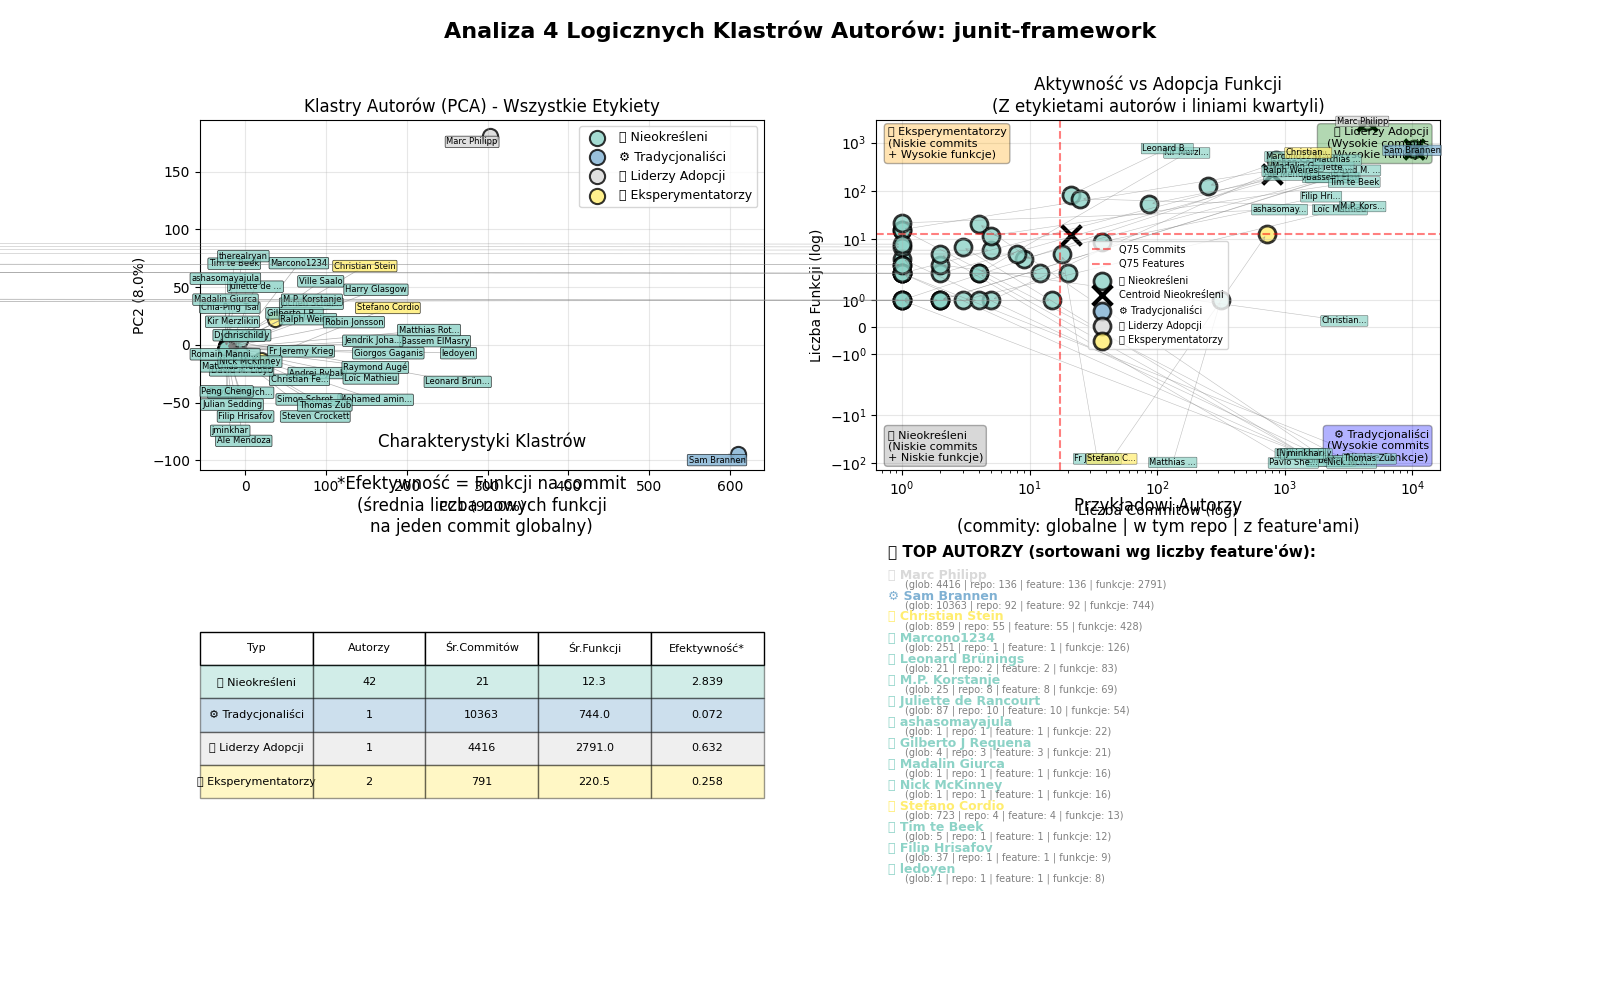
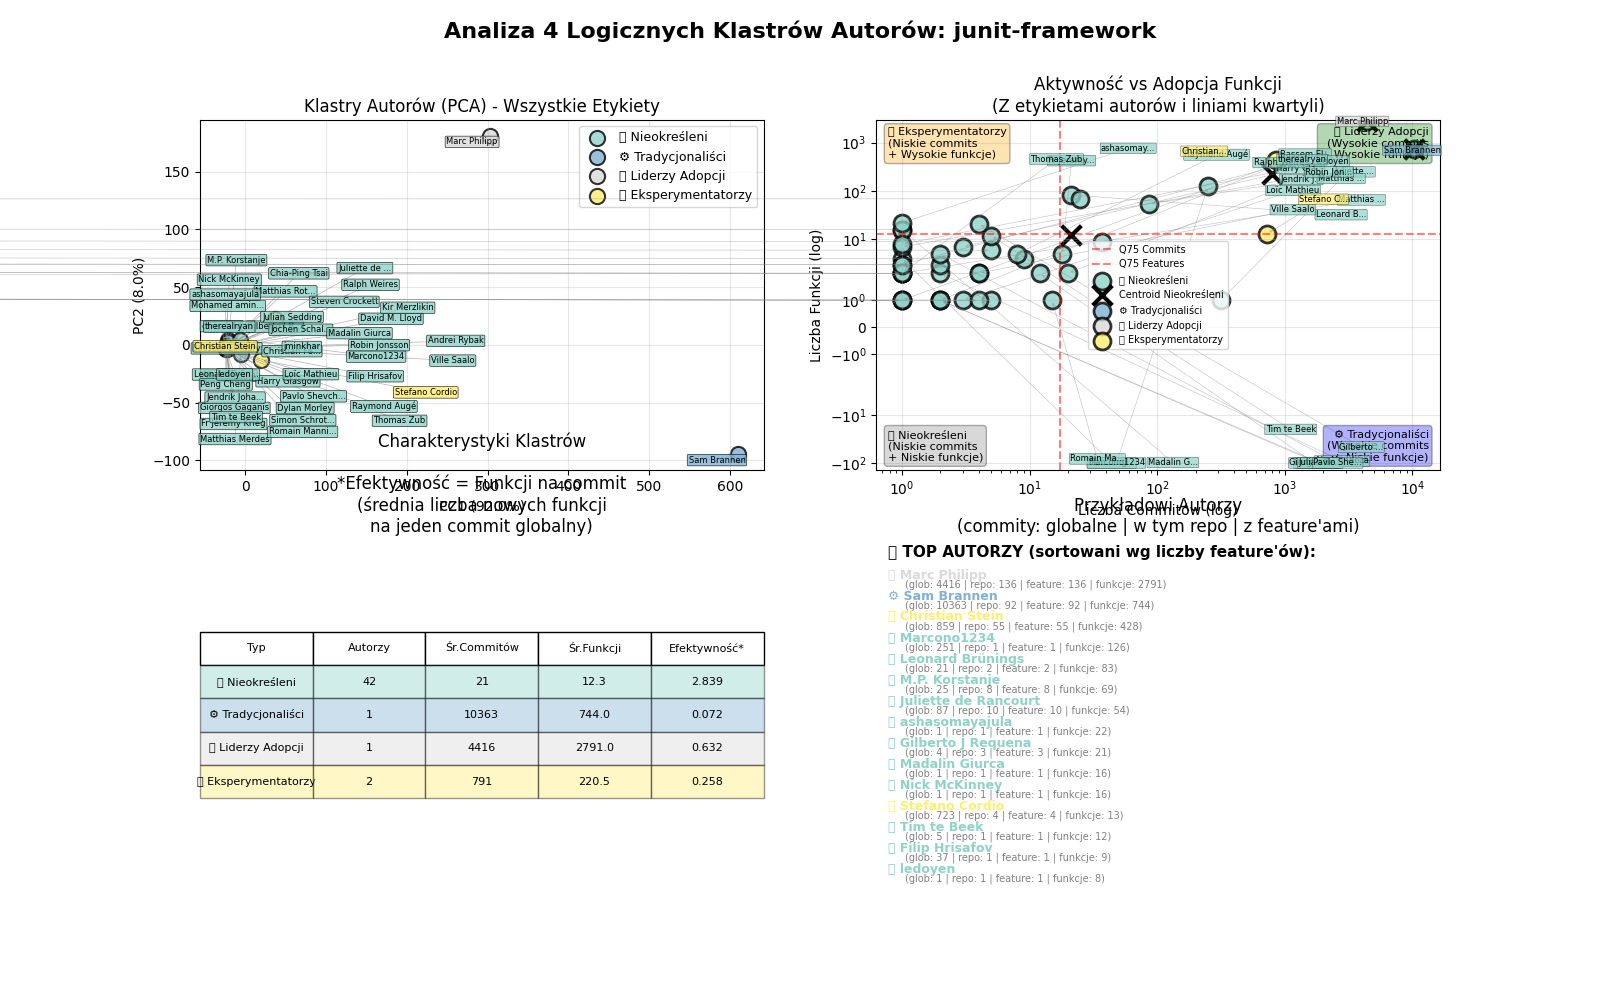
feat: even more charts

diff --git a/improved_cluster_analyzer_final.py b/improved_cluster_analyzer_final.py
@@ -1204,11 +1204,13 @@ PODSUMOWANIE ULEPSZEŃ:
         # Wykres 1: Boxplot efektywności per klaster
         if not global_df.empty and 'cluster_name' in global_df.columns:
             cluster_order = ['Liderzy Adopcji', 'Eksperymentatorzy', 'Tradycjonaliści', 'Nieokreśleni']
-            efficiency_data = [global_df[global_df['cluster_name'] == name]['features_per_commit'] for name in cluster_order if name in global_df['cluster_name'].values]
-            colors = [color_map[name] for name in cluster_order if name in global_df['cluster_name'].values]
+            # Filter to only include clusters present in the data
+            valid_cluster_order = [name for name in cluster_order if name in global_df['cluster_name'].unique()]
+            efficiency_data = [global_df[global_df['cluster_name'] == name]['features_per_commit'] for name in valid_cluster_order]
+            colors = [color_map[name] for name in valid_cluster_order]
             
             if efficiency_data:
-                bp = ax1.boxplot(efficiency_data, labels=[name for name in cluster_order if name in global_df['cluster_name'].values], patch_artist=True)
+                bp = ax1.boxplot(efficiency_data, labels=valid_cluster_order, patch_artist=True)
                 for patch, color in zip(bp['boxes'], colors):
                     patch.set_facecolor(color)
                     patch.set_alpha(0.7)
@@ -1218,15 +1220,16 @@ PODSUMOWANIE ULEPSZEŃ:
                 ax1.tick_params(axis='x', rotation=45, labelsize=11)
                 ax1.grid(True, alpha=0.3)
 
-        # Wykres 2: ZMIANA - Top 20 najbardziej efektywnych autorów (zamiast histogramu)
+        # Wykres 2: Top 20 najbardziej efektywnych autorów
+        top_20_authors = pd.DataFrame()
         if not global_df.empty and 'features_per_commit' in global_df.columns:
-            top_authors = global_df.nlargest(20, 'features_per_commit')
-            top_authors = top_authors.sort_values('features_per_commit', ascending=True) # For horizontal bar chart
+            top_20_authors = global_df.nlargest(20, 'features_per_commit')
+            top_authors_sorted = top_20_authors.sort_values('features_per_commit', ascending=True)
 
-            bars = ax2.barh(range(len(top_authors)), top_authors['features_per_commit'],
+            bars = ax2.barh(range(len(top_authors_sorted)), top_authors_sorted['features_per_commit'],
                            color='mediumseagreen', alpha=0.8)
-            ax2.set_yticks(range(len(top_authors)))
-            ax2.set_yticklabels(top_authors['author'], fontsize=10)
+            ax2.set_yticks(range(len(top_authors_sorted)))
+            ax2.set_yticklabels(top_authors_sorted['author'], fontsize=10)
             ax2.set_xlabel('Efektywność (Funkcji na Commit)', fontsize=12)
             ax2.set_ylabel('Autor', fontsize=12)
             ax2.set_title('Top 20 Najbardziej Efektywnych Autorów', fontsize=14)
@@ -1240,46 +1243,56 @@ PODSUMOWANIE ULEPSZEŃ:
             ax2.text(0.5, 0.5, 'Brak danych', ha='center', va='center', transform=ax2.transAxes)
             ax2.set_title('Top 20 Najbardziej Efektywnych Autorów', fontsize=14)
 
-        # Wykres 3: Efektywność vs Liczba commitów z poprawionymi etykietami
+        # Wykres 3: Efektywność vs Liczba commitów z rozszerzonymi etykietami
         if not global_df.empty and 'cluster_name' in global_df.columns:
             texts_ax3 = []
             for cluster_name, group in global_df.groupby('cluster_name'):
                 color = color_map.get(cluster_name, 'gray')
                 ax3.scatter(group['commits'], group['features_per_commit'], label=f"{group.iloc[0]['cluster_icon']} {cluster_name}", alpha=0.6, s=60, color=color)
 
-            # NOWA LOGIKA: Po 3 unikalnych reprezentantów z każdej grupy
+            # ZBIERZ AUTORÓW DO ETYKIETOWANIA
+            authors_to_label = set()
+            # 1. Dodaj top 20 efektywnych autorów
+            if not top_20_authors.empty:
+                authors_to_label.update(top_20_authors['author'].tolist())
+
+            # 2. Dodaj 3 reprezentantów z każdego klastra
             for cluster_name, cluster_group in global_df.groupby('cluster_name'):
                 if not cluster_group.empty:
-                    authors_to_label = set()
-                    if 'features_per_commit' in cluster_group.columns:
-                        authors_to_label.add(cluster_group.loc[cluster_group['features_per_commit'].idxmax()]['author'])
-                    if 'commits' in cluster_group.columns:
-                        authors_to_label.add(cluster_group.loc[cluster_group['commits'].idxmax()]['author'])
-                    if 'features' in cluster_group.columns:
-                        authors_to_label.add(cluster_group.loc[cluster_group['features'].idxmax()]['author'])
+                    # Najwyższa efektywność
+                    authors_to_label.add(cluster_group.loc[cluster_group['features_per_commit'].idxmax()]['author'])
+                    # Najwięcej commitów
+                    authors_to_label.add(cluster_group.loc[cluster_group['commits'].idxmax()]['author'])
+                    # Najwięcej funkcji
+                    authors_to_label.add(cluster_group.loc[cluster_group['features'].idxmax()]['author'])
 
-                    if len(authors_to_label) < 3 and len(cluster_group) > len(authors_to_label):
-                        remaining = cluster_group[~cluster_group['author'].isin(authors_to_label)]
-                        additional = remaining.nlargest(3 - len(authors_to_label), 'features_per_commit')
-                        authors_to_label.update(additional['author'].tolist())
+            # Filtruj dane tylko dla autorów do etykietowania
+            points_to_label_df = global_df[global_df['author'].isin(authors_to_label)]
 
-                    points_to_label = cluster_group[cluster_group['author'].isin(authors_to_label)]
-                    cluster_color = color_map.get(cluster_name, '#808080')
-
-                    for _, point in points_to_label.iterrows():
-                        author_name = point['author'][:12] + "..." if len(point['author']) > 12 else point['author']
-                        text = ax3.annotate(author_name, xy=(point['commits'], point['features_per_commit']), xytext=(5, 5), textcoords='offset points', fontsize=9, ha='left', va='bottom', bbox=dict(boxstyle="round,pad=0.3", facecolor=cluster_color, alpha=0.8, edgecolor='black', linewidth=0.5), arrowprops=dict(arrowstyle='->', color='black', alpha=0.7, lw=0.5))
-                        texts_ax3.append(text)
+            # Dodaj etykiety
+            for _, point in points_to_label_df.iterrows():
+                author_name = point['author'][:12] + "..." if len(point['author']) > 12 else point['author']
+                cluster_color = color_map.get(point['cluster_name'], '#808080')
+                text = ax3.annotate(author_name, 
+                                    xy=(point['commits'], point['features_per_commit']), 
+                                    xytext=(5, 5), 
+                                    textcoords='offset points', 
+                                    fontsize=9, ha='left', va='bottom', 
+                                    bbox=dict(boxstyle="round,pad=0.3", facecolor=cluster_color, alpha=0.8, edgecolor='black', linewidth=0.5), 
+                                    arrowprops=dict(arrowstyle='->', color='black', alpha=0.7, lw=0.5))
+                texts_ax3.append(text)
 
             if ADJUSTTEXT_AVAILABLE and texts_ax3:
                 try:
-                    adjust_text(texts_ax3, ax=ax3, expand_points=(2, 2), expand_text=(1.5, 1.5), arrowprops=dict(arrowstyle='->', color='gray', alpha=0.6, lw=0.5), force_points=1.5, force_text=1.5, lim=2000)
+                    adjust_text(texts_ax3, ax=ax3, expand_points=(2, 2), expand_text=(1.5, 1.5), 
+                                arrowprops=dict(arrowstyle='->', color='gray', alpha=0.6, lw=0.5), 
+                                force_points=1.5, force_text=1.5, lim=2000)
                 except Exception as e:
                     print(f"    ⚠ Błąd adjustText: {e}")
 
             ax3.set_xlabel('Liczba Commitów (log)', fontsize=12)
             ax3.set_ylabel('Efektywność (Funkcji na Commit)', fontsize=12)
-            ax3.set_title('Efektywność vs Aktywność Autora\n(3 reprezentatywnych autorów z każdej grupy)', fontsize=14)
+            ax3.set_title('Efektywność vs Aktywność Autora\n(Etykiety dla Top 20 Efektywnych i Reprezentantów Klastrów)', fontsize=14)
             ax3.set_xscale('log')
             ax3.legend(fontsize=11)
             ax3.grid(True, alpha=0.3)
